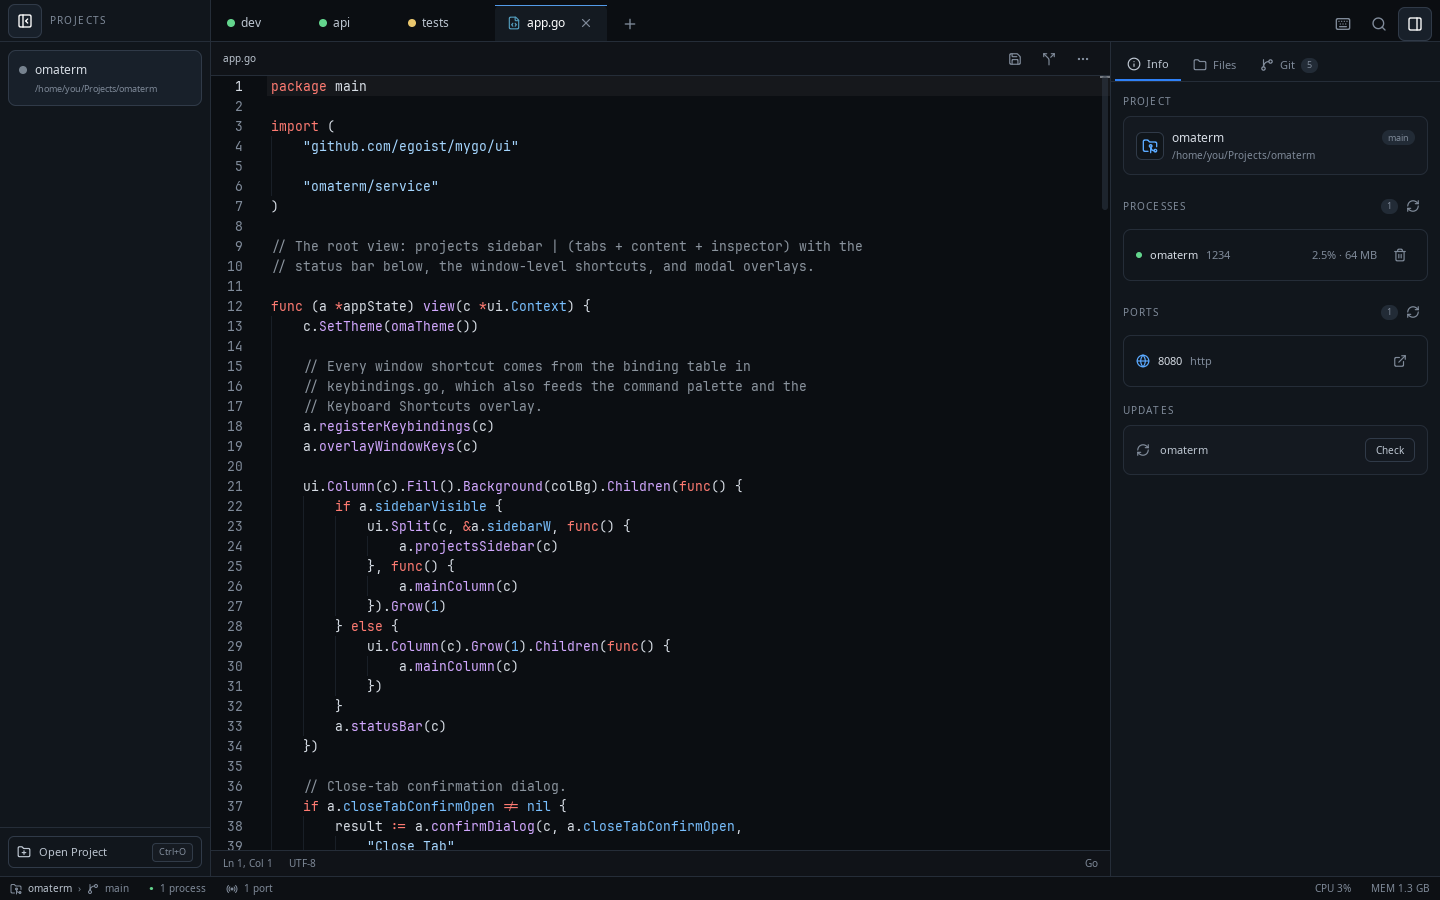
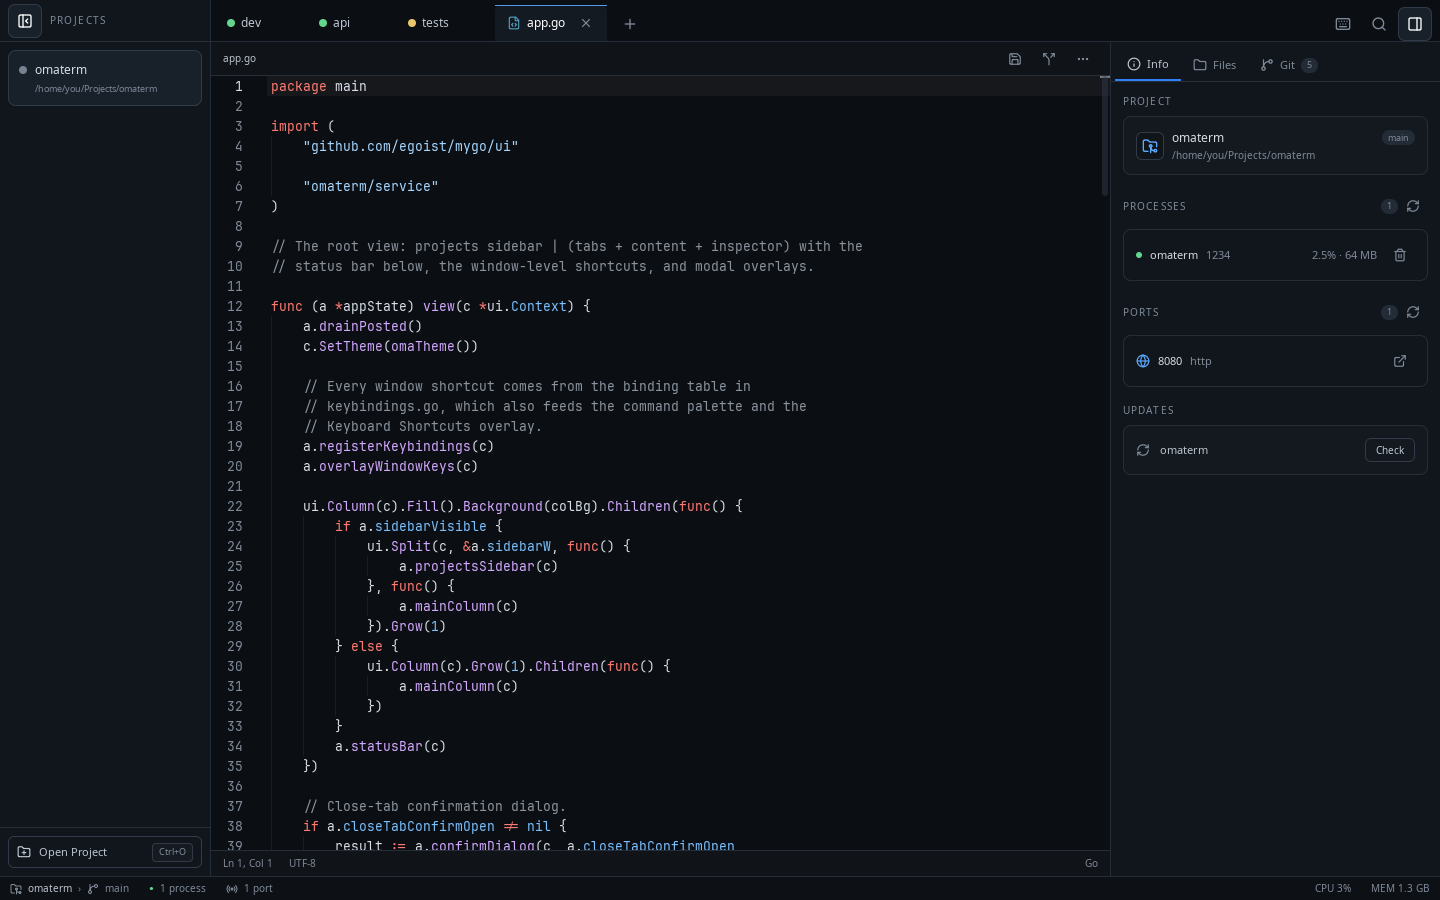
Keep the saved project at startup and close panes in background tabs
newApp picked the saved active project, then main switched back to the
first one. Panes that exited in a tab the user was not looking at stayed
on screen, as removePane only searched the active tab. Work from other
goroutines now reaches the UI thread through a.post.

Changed region(s): [[0.2188, 0.3422, 0.5625, 0.7778], [0.2188, 0.8711, 0.5, 0.9644], [0.2188, 0.7778, 0.3125, 0.84]]

diff --git a/terminal.go b/terminal.go
@@ -168,49 +168,23 @@ func (a *appState) term(id string) *terminal.Terminal {
 		OnTitle: func(title string) {},
 		OnExit: func(code int) {
 			// When the shell exits (e.g. Ctrl+D / "exit"), close the pane.
-			// Marshal to the main thread since OnExit runs on a terminal
-			// goroutine; in tests (no window) run directly.
-			doClose := func() {
+			// OnExit runs on a terminal goroutine: hop to the UI thread.
+			a.post(func() {
 				// Only act if the pane still exists (not already closed).
 				a.termPanesMu.Lock()
-				if _, ok := a.termPanes[id]; !ok {
-					a.termPanesMu.Unlock()
-					return
-				}
-				// Find the tab containing this terminal.
-				tabIndex := -1
-				isLeaf := false
-				for i, tab := range a.tabs {
-					if tab.Split == nil {
-						continue
-					}
-					for _, tid := range tab.Split.termIDs() {
-						if tid == id {
-							tabIndex = i
-							isLeaf = tab.Split.isLeaf()
-							break
-						}
-					}
-					if tabIndex >= 0 {
-						break
-					}
-				}
+				_, ok := a.termPanes[id]
 				a.termPanesMu.Unlock()
-				if tabIndex < 0 {
+				tab := a.tabOfPane(id)
+				if !ok || tab < 0 {
 					return
 				}
-				// Close the pane (or the tab if last pane).
-				if isLeaf {
-					a.closeTab(tabIndex)
+				// Close the pane, or the tab if it was its last pane.
+				if a.tabs[tab].Split.isLeaf() {
+					a.closeTab(tab)
 				} else {
-					a.removePane(id)
+					a.removePaneIn(tab, id)
 				}
-			}
-			if a.win == nil {
-				doClose()
-				return
-			}
-			a.win.Update(doClose)
+			})
 		},
 	})
 	if err != nil {
@@ -271,8 +245,32 @@ func (a *appState) splitPane(termID string, dir splitDir) string {
 	return ""
 }
 
+// tabOfPane returns the index of the tab whose split holds the pane, or -1.
+func (a *appState) tabOfPane(termID string) int {
+	for i, tab := range a.tabs {
+		if tab.Split == nil {
+			continue
+		}
+		for _, id := range tab.Split.termIDs() {
+			if id == termID {
+				return i
+			}
+		}
+	}
+	return -1
+}
+
+// removePane closes the pane wherever it is, not only in the active tab: a
+// shell can exit in a tab the user is not looking at.
 func (a *appState) removePane(termID string) {
-	root := a.activeSplit()
+	a.removePaneIn(a.tabOfPane(termID), termID)
+}
+
+func (a *appState) removePaneIn(tab int, termID string) {
+	if tab < 0 || tab >= len(a.tabs) {
+		return
+	}
+	root := a.tabs[tab].Split
 	if root == nil {
 		return
 	}
@@ -280,6 +278,7 @@ func (a *appState) removePane(termID string) {
 	if !removed {
 		return
 	}
+	active := tab == a.activeTab
 	if a.activePaneTermID == termID {
 		a.activePaneTermID = ""
 	}
@@ -289,15 +288,12 @@ func (a *appState) removePane(termID string) {
 	}
 	delete(a.termPanes, termID)
 	a.termPanesMu.Unlock()
-	if newRoot == nil {
-		// tab should close; for now leave nil (closeTab handles cleanup)
-		a.setActiveSplit(nil)
-	} else {
-		a.setActiveSplit(newRoot)
+	a.tabs[tab].Split = newRoot
+	if newRoot != nil {
 		rebalance(newRoot)
 		// A pane closed under the keyboard: give it to the first one left,
 		// unless the caller picked another.
-		if a.activePaneTermID == "" {
+		if active && a.activePaneTermID == "" {
 			if ids := newRoot.termIDs(); len(ids) > 0 {
 				a.activePaneTermID = ids[0]
 			}

diff --git a/foundations_test.go b/foundations_test.go
@@ -1,0 +1,98 @@
+package main
+
+import (
+	"encoding/json"
+	"os"
+	"path/filepath"
+	"testing"
+)
+
+// The saved active project survives startup: start loads it, it does not
+// switch back to the first project.
+func TestStartupKeepsSavedActiveProject(t *testing.T) {
+	cfg := t.TempDir()
+	t.Setenv("XDG_CONFIG_HOME", cfg)
+	one, two := t.TempDir(), t.TempDir()
+	st := savedState{Projects: []project{{Name: "one", Path: one}, {Name: "two", Path: two}}, Active: 1}
+	data, _ := json.Marshal(st)
+	if err := os.MkdirAll(filepath.Join(cfg, "omaterm"), 0o755); err != nil {
+		t.Fatal(err)
+	}
+	if err := os.WriteFile(filepath.Join(cfg, "omaterm", "state.json"), data, 0o644); err != nil {
+		t.Fatal(err)
+	}
+
+	a := newApp()
+	a.start()
+	defer a.stopSystemStats()
+	defer a.stopProcessRefresh()
+	if a.active != 1 || a.workspace != two {
+		t.Fatalf("active = %d (%q), want 1 (%q)", a.active, a.workspace, two)
+	}
+}
+
+// A pane removed from a tab the user is not looking at goes from that tab,
+// and leaves the focused pane of the active tab alone.
+func TestBackgroundPaneExitRemovesPane(t *testing.T) {
+	a := newApp()
+	a.win = nil
+	a.tabs = []topTab{
+		{Kind: tabTerminal, Label: "bg", Split: &splitNode{TermID: "a"}},
+		{Kind: tabTerminal, Label: "fg", Split: &splitNode{TermID: "c"}},
+	}
+	a.activeTab = 0
+	a.splitPane("a", splitVertical)
+	ids := a.tabs[0].Split.termIDs()
+	if len(ids) != 2 {
+		t.Fatalf("split: %v", ids)
+	}
+	a.activeTab = 1
+	a.activePaneTermID = "c"
+
+	a.removePane(ids[1])
+	if !a.tabs[0].Split.isLeaf() || a.tabs[0].Split.TermID != "a" {
+		t.Fatalf("background tab still holds the pane: %v", a.tabs[0].Split.termIDs())
+	}
+	if a.activePaneTermID != "c" {
+		t.Fatalf("focused pane moved to %q", a.activePaneTermID)
+	}
+}
+
+func TestRemoveLeafDeepTree(t *testing.T) {
+	root := &splitNode{TermID: "a"}
+	for _, id := range []string{"b", "c", "d"} {
+		if r := root.splitLeaf("a", splitHorizontal, id); r != nil {
+			root = r
+		}
+	}
+	root, ok := removeLeaf(root, "c")
+	if !ok {
+		t.Fatal("c not removed")
+	}
+	got := root.termIDs()
+	want := []string{"a", "d", "b"}
+	if len(got) != len(want) {
+		t.Fatalf("leaves = %v, want %v", got, want)
+	}
+	for i := range want {
+		if got[i] != want[i] {
+			t.Fatalf("leaves = %v, want %v", got, want)
+		}
+	}
+}
+
+// Work posted with no window runs at the next frame, in order.
+func TestPostRunsOnNextFrame(t *testing.T) {
+	a := newApp()
+	a.win = nil
+	var got []int
+	a.post(func() { got = append(got, 1) })
+	a.post(func() { got = append(got, 2) })
+	if len(got) != 0 {
+		t.Fatal("posted work ran before the frame")
+	}
+	a.drainPosted()
+	if len(got) != 2 || got[0] != 1 || got[1] != 2 {
+		t.Fatalf("got %v", got)
+	}
+}

diff --git a/state.go b/state.go
@@ -230,6 +230,11 @@ type appState struct {
 	// Terminal panes (Ghostty VT via MyGo's plugin)
 	termPanes   map[string]*terminal.Terminal
 	termPanesMu sync.Mutex
+
+	// posted is work handed to the UI thread while there is no window, as
+	// in tests: view runs it at the start of the next frame (see post).
+	postedMu sync.Mutex
+	posted   []func()
 	// termCmd runs instead of the user's shell, for the screenshot suite:
 	// a live shell prints its prompt at an unpredictable moment.
 	termCmd []string
@@ -484,11 +489,31 @@ func (a *appState) setProject(i int) {
 	a.diffDs, a.diffKey = nil, ""
 	a.closeOverlay()
 
+	a.loadProjectData()
+	a.saveProjects()
+}
+
+// start begins the window's work once it exists: the loads of the saved
+// active project (newApp chose it, but had no window for the results to
+// reach), and the timers of the status bar and the Info panel.
+func (a *appState) start() {
+	if a.project() != nil {
+		a.loadProjectData()
+	}
+	a.startSystemStats()
+	if a.inspectorTab == 0 && a.inspectorVisible {
+		a.startProcessRefresh()
+	}
+}
+
+// loadProjectData starts the loads of the active project's repos, files
+// and processes. setProject calls it; so does start, once the window
+// exists, since loads begun before it had no window to report to.
+func (a *appState) loadProjectData() {
 	a.refreshRepos()
 	a.rebuildFileIndex()
 	a.rebuildFileTree()
 	a.refreshProcesses()
-	a.saveProjects()
 }
 
 // switchProject shows project i, as clicking it in the sidebar does, and

diff --git a/app.go b/app.go
@@ -10,6 +10,7 @@ import (
 // status bar below, the window-level shortcuts, and modal overlays.
 
 func (a *appState) view(c *ui.Context) {
+	a.drainPosted()
 	c.SetTheme(omaTheme())
 
 	// Every window shortcut comes from the binding table in
@@ -182,4 +183,29 @@ func dangerButton(c *ui.Context, label string) ui.Element {
 		ui.Text(c, label).FontSize(12).FontWeight(600).TextColor(ui.Hex("#20100f"))
 	})
 	return e
+}
+
+// post runs fn on the UI thread: through the window's update queue, or,
+// with no window (tests), at the start of the next frame. Goroutines that
+// change app state, as a terminal's exit or a background load, hand it
+// over this way instead of touching the state themselves.
+func (a *appState) post(fn func()) {
+	if a.win != nil {
+		a.win.Update(fn)
+		return
+	}
+	a.postedMu.Lock()
+	a.posted = append(a.posted, fn)
+	a.postedMu.Unlock()
+}
+
+// drainPosted runs what post queued while there was no window.
+func (a *appState) drainPosted() {
+	a.postedMu.Lock()
+	fns := a.posted
+	a.posted = nil
+	a.postedMu.Unlock()
+	for _, fn := range fns {
+		fn()
+	}
 }

diff --git a/main.go b/main.go
@@ -29,7 +29,6 @@ func main() {
 			StateKey:        "main",
 			Content:         ui.View(a.view),
 		})
-		// Now that the window exists, kick the initial async loads.
 		a.win.OnClosed(func() {
 			a.stopSystemStats()
 			for _, t := range a.termPanes {
@@ -45,13 +44,7 @@ func main() {
 				a.refreshActiveRepo()
 			}
 		})
-		if len(a.projects) > 0 {
-			a.setProject(0)
-		}
-		a.startSystemStats()
-		if a.inspectorTab == 0 && a.inspectorVisible {
-			a.startProcessRefresh()
-		}
+		a.start()
 	})
 	if err := mygo.App.Run(); err != nil {
 		log.Fatal(err)
